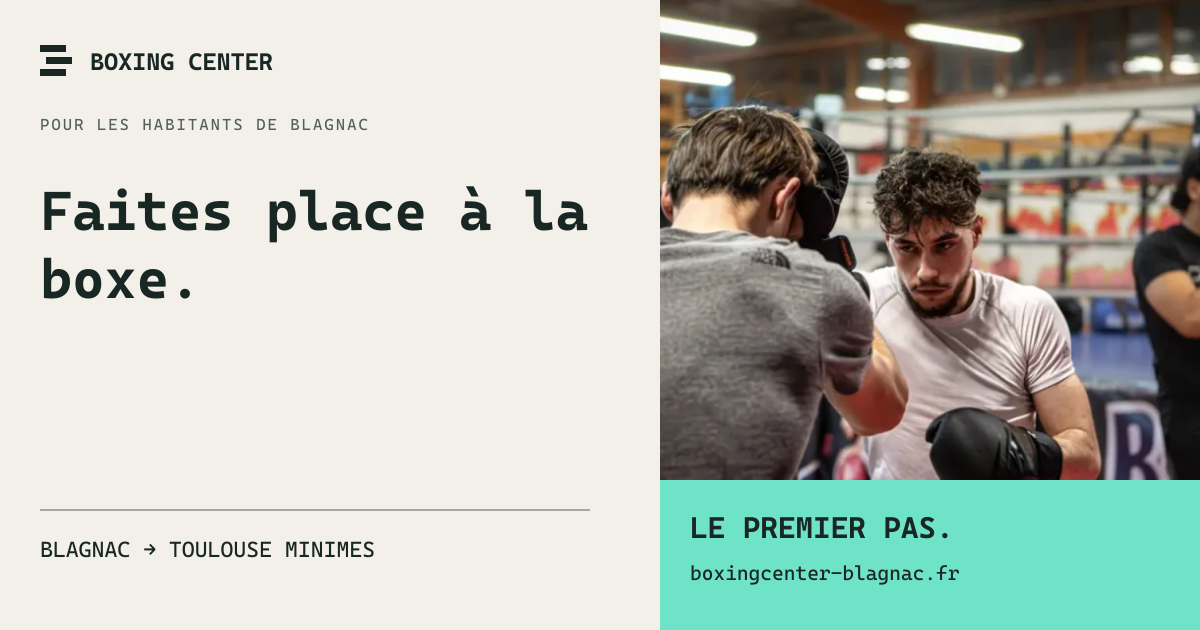
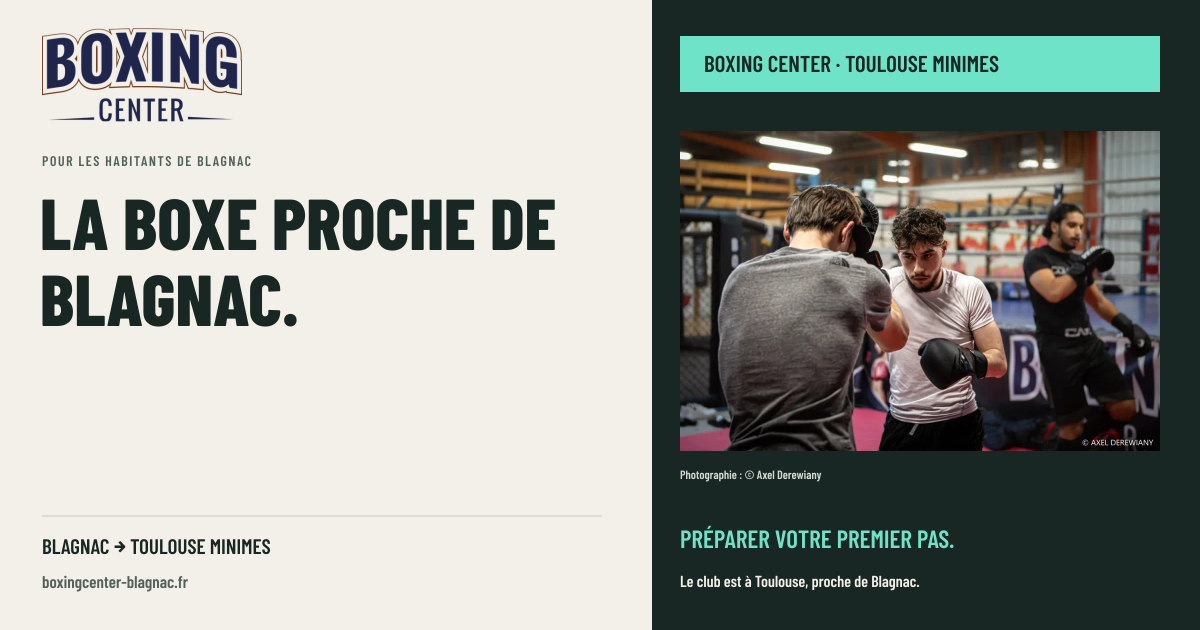
Refine navigation and club conversion paths

diff --git a/src/styles/global.css b/src/styles/global.css
@@ -11,7 +11,7 @@
 }
 @layer base {
   :root { --paper: #f2f0e8; --ink: #192724; --muted: #52615a; --mint: #6ee3c8; --deep: #143e34; --line: #c3c8bd; --display: 'Barlow Condensed', 'Arial Narrow', sans-serif; --body: 'Manrope Variable', Arial, sans-serif; --pad: clamp(22px, 4.5vw, 88px); }
-  html { scroll-behavior: smooth; scroll-padding-top: 100px; }
+  html { scroll-behavior: smooth; scroll-padding-top: 125px; }
   body { background: var(--paper); color: var(--ink); font: 500 15px/1.65 var(--body); overflow-wrap: break-word; }
   ::selection { color: var(--ink); background: var(--mint); }
   :focus-visible { outline: 3px solid #196954; outline-offset: 5px; }
@@ -48,18 +48,32 @@
   @keyframes fade-in { from { opacity: 0; transform: translateY(8px); } }
 }
 @layer layout {
-  .site-header { position: relative; z-index: 20; display: flex; align-items: center; padding: 22px var(--pad); gap: 30px; border-bottom: 1px solid var(--line); min-height: 106px; }
-  .brand { display: flex; align-items: center; gap: 12px; flex: 0 0 auto; font-family: var(--display); font-weight: 800; line-height: .86; font-size: 25px; letter-spacing: -.035em; }
-  .brand-local { display: block; margin-top: 8px; font-family: var(--body); font-size: 8px; font-weight: 800; letter-spacing: .12em; }
-  .brand-symbol { display: grid; width: 33px; gap: 5px; transform: rotate(-22deg); }
-  .brand-symbol i { display: block; height: 6px; background: var(--ink); }
-  .brand-symbol i:nth-child(2) { background: #2c9477; transform: translateX(7px); }
-  .desktop-nav { display: flex; justify-content: center; gap: 30px; margin-left: auto; font-size: 12px; font-weight: 700; }
+  .site-header { position: sticky; top: 0; z-index: 50; display: flex; align-items: center; padding: 12px var(--pad); gap: 25px; border-bottom: 1px solid var(--line); min-height: 106px; background: var(--paper); }
+  .brand { display: flex; flex-direction: column; align-items: center; gap: 5px; flex: 0 0 auto; }
+  .brand img { width: 142px; height: auto; }
+  .brand-local { display: block; color: #20254b; font-size: 8px; line-height: 1.5; font-weight: 800; letter-spacing: .12em; }
+  .brand-footer { width: fit-content; padding: 15px 18px; background: var(--paper); margin-bottom: 20px; }
+  .desktop-nav { display: flex; justify-content: center; gap: 24px; margin-left: auto; font-size: 12px; font-weight: 700; }
   .desktop-nav a { padding: 8px 0; border-bottom: 1px solid transparent; transition: border .25s; }
-  .desktop-nav a:hover { border-color: var(--ink); }
+  .desktop-nav a:hover, .desktop-nav a[aria-current="page"] { border-color: var(--ink); }
   .header-cta { margin-left: auto; display: flex; align-items: center; gap: 20px; border: 1px solid var(--ink); padding: 13px 17px; font-size: 12px; font-weight: 800; transition: background .2s; }
   .header-cta:hover { background: var(--mint); }
+  .header-cta small { display: block; font-size: 8px; letter-spacing: .09em; margin-top: 2px; color: var(--muted); }
   .mobile-menu { display: none; }
+  .mobile-club-cta { display: none; }
+  .menu-backdrop { display: none; }
+  .club-prompt { position: fixed; right: 22px; bottom: 20px; z-index: 30; display: flex; justify-content: space-between; align-items: center; gap: 18px; width: 210px; max-width: calc(100vw - 36px); min-height: 60px; padding: 13px 17px; background: var(--mint); color: var(--ink); border: 1px solid var(--ink); box-shadow: 3px 3px 0 #19272430; transition: width .25s ease, box-shadow .25s ease; }
+  .club-prompt strong { display: block; font-size: 12px; line-height: 1.3; }
+  .club-prompt small { display: block; font-size: 7px; font-weight: 800; letter-spacing: .07em; margin-top: 4px; }
+  .club-prompt svg { flex: 0 0 auto; width: 20px; height: 20px; }
+  .club-prompt-detail { display: none; font-size: 11px; line-height: 1.5; margin-top: 10px; }
+  .club-prompt.is-expanded { width: 320px; box-shadow: 3px 3px 0 #19272430, 0 0 0 6px #6ee3c840; }
+  .club-prompt.is-expanded .club-prompt-detail { display: block; }
+  footer.site-footer { padding-bottom: 110px; }
+  .practical-connections { padding: 35px var(--pad) 60px; border-top: 1px solid var(--line); }
+  .practical-connections nav { display: flex; flex-wrap: wrap; gap: 16px 35px; margin-top: 20px; }
+  .practical-connections a { display: flex; gap: 20px; align-items: center; min-height: 44px; font-size: 13px; font-weight: 800; }
+  .practical-direct { margin-top: 22px; }
   .hero { padding: 24px var(--pad) 0; }
   .hero-topline { display: flex; justify-content: space-between; gap: 20px; }
   .hero-coordinate { font-size: 10px; font-weight: 800; letter-spacing: .08em; }
@@ -307,16 +321,27 @@
   }
   @media(max-width:800px) {
     .desktop-nav { display: none; }
-    .site-header { padding-top: 20px; padding-bottom: 20px; min-height: 95px; }
-    .header-cta { margin-left: auto; font-size: 11px; }
+    .site-header { padding-top: 10px; padding-bottom: 10px; min-height: 95px; }
+    .header-cta { display: none; }
+    .mobile-club-cta { margin-left: auto; display: flex; align-items: center; gap: 8px; padding: 8px 10px; min-height: 44px; font-size: 11px; font-weight: 800; background: var(--mint); border: 1px solid var(--ink); line-height: 1.3; }
+    .mobile-club-cta small { display: block; font-size: 7px; letter-spacing: .06em; margin-top: 3px; }
+    .mobile-club-cta svg { width: 16px; height: 16px; }
     .mobile-menu { display: block; margin-left: 5px; font-size: 12px; }
     .mobile-menu summary { cursor: pointer; list-style: none; display: flex; align-items: center; gap: 14px; padding: 13px 0 13px 10px; }
     .mobile-menu summary::-webkit-details-marker { display: none; }
     .mobile-menu summary span { font-size: 21px; }
     .mobile-menu[open] summary span { transform: rotate(45deg); }
-    .mobile-menu nav { position: absolute; left: 0; right: 0; top: 100%; padding: 30px var(--pad); background: var(--ink); color: var(--paper); display: grid; gap: 3px; box-shadow: 0 8px 15px #0002; }
-    .mobile-menu nav a { padding: 10px 0; font-size: 15px; }
+    .mobile-menu nav { position: absolute; left: 0; right: 0; top: 100%; padding: 22px var(--pad) 26px; background: var(--ink); color: var(--paper); display: grid; gap: 3px; box-shadow: 0 8px 15px #0002; max-height: calc(100dvh - 110px); overflow-y: auto; overscroll-behavior: contain; }
+    .mobile-menu nav a { padding: 9px 0; min-height: 44px; font-size: 15px; }
+    .mobile-menu nav a[aria-current="page"] { color: var(--mint); }
+    .mobile-menu summary { min-height: 44px; min-width: 74px; }
+    .mobile-menu .menu-trial { display: grid; grid-template-columns: 1fr auto; align-items: center; padding: 15px 18px; margin-top: 13px; background: var(--mint); color: var(--ink); font-weight: 800; }
+    .menu-trial small { grid-column: 1/-1; font-size: 8px; letter-spacing: .07em; margin-top: 3px; }
     .mobile-menu:not([open]) nav { display: none; }
+    body:has(.mobile-menu[open]) { overflow: hidden; }
+    body:has(.mobile-menu[open]) > main, body:has(.mobile-menu[open]) > .site-footer { filter: blur(7px); pointer-events: none; }
+    body:has(.mobile-menu[open]) .club-prompt { display: none; }
+    body:has(.mobile-menu[open]) .menu-backdrop { display: block; position: fixed; inset: 0; z-index: 40; background: #19272440; cursor: pointer; }
     .hero-topline { display: block; }
     .hero-coordinate { display: none; }
     .hero-main-photo { height: 370px; }
@@ -371,14 +396,13 @@
   }
   @media(max-width:600px) {
     :root { --pad: 22px; }
-    html { scroll-padding-top: 25px; }
+    html { scroll-padding-top: 110px; }
     .site-header { gap: 12px; min-height: 90px; }
-    .brand { font-size: 22px; gap: 10px; }
-    .brand-symbol { width: 26px; gap: 4px; }
-    .brand-symbol i { height: 5px; }
+    .brand img { width: 124px; }
     .brand-local { font-size: 7px; }
     .header-cta { display: none; }
-    .mobile-menu { margin-left: auto; }
+    .mobile-menu { margin-left: 0; }
+    .club-prompt { right: 18px; bottom: 16px; }
     .hero { padding-top: 18px; }
     .hero-topline .eyebrow { font-size: 8px; letter-spacing: .07em; }
     .hero-composition { display: flex; flex-direction: column; padding-top: 32px; }
@@ -503,6 +527,9 @@
   }
   @media(max-width:360px) {
     :root { --pad: 18px; }
+    .site-header { gap: 8px; }
+    .brand img { width: 102px; }
+    .mobile-menu summary { min-width: 58px; gap: 8px; padding-left: 4px; }
     .hero-copy h1 { font-size: 25vw; }
     .hero-main-photo { height: 290px; }
     .opening h2 { font-size: 54px; }

diff --git a/src/scripts/site.ts b/src/scripts/site.ts
@@ -55,7 +55,51 @@ document.querySelectorAll<HTMLElement>('[data-session]').forEach((root) => {
 });
 
 document.querySelectorAll<HTMLDetailsElement>('.mobile-menu').forEach(menu => {
-  menu.addEventListener('keydown', event => { if (event.key === 'Escape') { menu.open = false; menu.querySelector('summary')?.focus(); } });
-  menu.querySelectorAll('a').forEach(link => link.addEventListener('click', () => { menu.open = false; }));
-  document.addEventListener('click', event => { if (event.target instanceof Node && !menu.contains(event.target)) menu.open = false; });
+  const header = menu.closest<HTMLElement>('header')!;
+  const summary = menu.querySelector('summary')!;
+  const background = [...document.querySelectorAll<HTMLElement>('main, .site-footer, .club-prompt')];
+  const mobile = matchMedia('(max-width: 800px)');
+  const sync = () => {
+    const open = menu.open && mobile.matches;
+    background.forEach(element => { element.inert = open; });
+    summary.setAttribute('aria-expanded', String(open));
+  };
+  const close = (restoreFocus = false) => {
+    menu.open = false;
+    sync();
+    if (restoreFocus) summary.focus();
+  };
+  menu.addEventListener('toggle', sync);
+  document.addEventListener('keydown', event => {
+    if (!menu.open || !mobile.matches) return;
+    if (event.key === 'Escape') { event.preventDefault(); close(true); return; }
+    if (event.key !== 'Tab') return;
+    const focusable = [...header.querySelectorAll<HTMLElement>('a[href], summary, button:not([disabled])')].filter(element => element.getClientRects().length > 0);
+    const first = focusable[0], last = focusable.at(-1)!;
+    if (event.shiftKey && document.activeElement === first) { event.preventDefault(); last.focus(); }
+    else if (!event.shiftKey && document.activeElement === last) { event.preventDefault(); first.focus(); }
+  });
+  menu.querySelectorAll('a').forEach(link => link.addEventListener('click', () => close()));
+  document.addEventListener('click', event => { if (event.target instanceof Node && !menu.contains(event.target)) close(); });
+  mobile.addEventListener('change', () => { if (!mobile.matches) close(); });
+  sync();
 });
+
+const clubPrompt = document.querySelector<HTMLElement>('[data-club-prompt]');
+if (clubPrompt) {
+  let nextDistance = 240, lastExpanded = -12000, timer: ReturnType<typeof setTimeout>;
+  const expand = () => {
+    clubPrompt.classList.add('is-expanded');
+    clearTimeout(timer);
+    timer = setTimeout(() => clubPrompt.classList.remove('is-expanded'), 3800);
+  };
+  window.addEventListener('scroll', () => {
+    if (document.querySelector('.mobile-menu[open]')) return;
+    if (scrollY < nextDistance || performance.now() - lastExpanded < 12000) return;
+    lastExpanded = performance.now();
+    nextDistance = scrollY + Math.max(700, innerHeight);
+    expand();
+  }, { passive: true });
+  clubPrompt.addEventListener('focus', expand);
+  clubPrompt.addEventListener('mouseenter', expand);
+}

diff --git a/docs/UI-REVIEW.md b/docs/UI-REVIEW.md
@@ -1,0 +1,30 @@
+# Passe UI/UX et éditoriale — 4 octobre 2026
+
+Les deux fichiers du cahier des charges transmis par Eddy ont le même SHA-256. La présente passe conserve la direction visuelle appréciée et traite les défauts signalés ; elle ne constitue pas une refonte complète ni une certification du niveau artistique Baffled Bar.
+
+| Demande / défaut | Résultat | Vérification |
+| --- | --- | --- |
+| Navigation perdue au scroll | En-tête sticky avec fond opaque | Bord supérieur à 0 après défilement réel |
+| Page confuse derrière le menu | Flou de 7 px, voile, arrière-plan inerte, scroll bloqué | Menu ouvert : flou et inert confirmés ; capture sauvegardée |
+| Navigation clavier | Focus contenu dans l’en-tête ; Échap ferme et restitue le focus | Boucle Tab / Maj-Tab, Échap, clic extérieur, retour au bureau |
+| Accès au club sur mobile | Bouton « Le club / Minimes » hors du menu | Visible sur les dix pages à 320 px, puis à 390 et 768 px |
+| Conversion pendant la lecture | Rectangle flottant permanent, élargissement ponctuel au scroll ou au focus | État développé observé ; retour compact après 3,8 s ; cadence limitée à une fois par 12 s de scroll |
+| Destination adaptée | Planning, tarifs et contact ont leur propre lien flottant | Dix routes inspectées dans le navigateur |
+| Liens quittant la page | Navigation dans un nouvel onglet, avec `noopener noreferrer` | Site Minimes et planning officiel réellement ouverts ; onglet Blagnac conservé |
+| Pages pratiques diluées | Plannings et Tarifs raccourcis : information officielle, lien immédiat, fiche officielle et questions utiles | Pages présentes et contrôlées ; menu relié directement aux pages du club |
+| Logo recomposé | Fichier officiel bleu marine / bronze dans l’en-tête, le pied de page et les partages | Asset `00_MARQUE/BC_Logo_Officiel_Transparent.png`, sans recoloration |
+| Ton du brief | Clair, local, rassurant, débutants bienvenus, orienté vers les Minimes | Intro et parcours revus ; pas de salle fictive à Blagnac ni de réservation simulée |
+
+La mention « coachs diplômés » reprend le cahier des charges fourni par le coach. Aucun diplôme, titulaire ou numéro précis n’a été inventé. La page publique des coachs présente les rôles de l’équipe mais ne détaille pas leurs qualifications : https://boxe-toulouse.com/coachs/.
+
+## Contrôles
+
+Build réussi : 12 pages. Audit HTML réussi : 11 pages indexables, accès flottant présent, liens de navigation dans de nouveaux onglets, images et maillage valides. Dix routes contrôlées à 320 px sans débordement. Accueil revérifié à 390, 768, 820 et 1440 px ; console sans erreur ni alerte relevée. Menu et fiches restent des contrôles natifs ; les liens fonctionnent sans JavaScript. Le comportement sans scripts et la réduction des animations ont été prévus ; aucune nouvelle émulation native de ces deux modes n’a été effectuée dans cette passe.
+
+Les captures de revue se trouvent dans `docs/qa/`, exclu de Git. Les ZIP et recherches restent exclus. Aucun agent supplémentaire ni service d’image générative n’a été utilisé pour cette passe.
+
+## Passe suivante, séparée à la demande d’Eddy
+
+SEO / GEO / AEO complet, revue des mots-clés et de toutes les vignettes, règles Claude Code appliquées à Codex, et ajout éventuel des nouvelles consignes au dossier de skills. Les préparations déjà engagées avant cette précision sont conservées, sans déclarer la passe SEO complète. Tout ajout aux skills devra être signé « Ajout rédigé par Codex à partir des consignes d’Eddy ».
+
+Le raccordement du domaine, les accès hébergement / Search Console et les informations légales restent décrits dans `PROJECT-STATE.md`.

diff --git a/docs/PROJECT-STATE.md b/docs/PROJECT-STATE.md
@@ -4,6 +4,8 @@
 
 ## Résultat disponible
 
+**Dernière passe : UI/UX et éditoriale du 4 octobre 2026**, décrite dans `UI-REVIEW.md`. Navigation sticky, menu avec flou et gestion clavier, logo officiel, accès au club hors du menu mobile, bouton flottant sur chaque page, liens dans de nouveaux onglets, pages pratiques raccourcies. Le SEO / GEO / AEO complet et les règles Claude Code sont réservés à une passe séparée, selon la dernière instruction d’Eddy.
+
 Site Astro statique comprenant les dix pages du brief, une page de confidentialité et une 404. Interface originale papier/encre/menthe, Barlow Condensed/Manrope, photographies du réseau et archive Fight Event 4. La fiche de départ combine discipline, disponibilité personnelle, conseil de préparation et résumé de conversation à copier. Aucune réservation n’est simulée et aucune donnée n’est transmise.
 
 La salle de destination est **Toulouse Minimes, 12 rue de Fenouillet, 31200 Toulouse**. Blagnac est l’origine du visiteur. Le MMA conserve une page, une entrée parmi les pratiques et un parcours de contact conformément au brief ; le lieu du cours se vérifie avec le réseau via les Minimes. Les autres destinations commerciales sont les pages réelles de `boxe-toulouse.com`.
@@ -20,7 +22,7 @@ La salle de destination est **Toulouse Minimes, 12 rue de Fenouillet, 31200 Toul
 - Contraste calculé sur 156 éléments textuels de l’accueil. Le mot décoratif en marge identifié comme peu contrasté a été corrigé. Les numéros sur photographie sont évalués visuellement avec leur ombre ; ce contrôle n’est pas une certification WCAG exhaustive.
 - Réduction des animations prévue via `prefers-reduced-motion`, avec garde JavaScript et CSS. Code inspecté ; aucune émulation native de cette préférence n’a été effectuée avec l’outil navigateur disponible.
 - `npm audit --omit=dev --audit-level=high` : zéro vulnérabilité.
-- JavaScript client de production : 5 237 octets avant compression. CSS principal : environ 37 Ko. 27 variantes WebP : environ 1,75 Mio pour toute la photothèque, sans agrandissement artificiel. Les douze PNG de partage sont hors du chargement courant des pages.
+- JavaScript client de production : 6 520 octets avant compression. CSS principal : environ 40 Ko. 27 variantes WebP : environ 1,75 Mio pour toute la photothèque, sans agrandissement artificiel. Les douze PNG de partage sont hors du chargement courant des pages.
 - Contrôle visuel bureau/mobile : accueil, choix de pratique, fiche, accès, événement, page enfants et contact. Photographies et légendes vérifiées, watermark de l’archive conservé.
 
 Les chiffres ci-dessus décrivent la version locale ; ils ne sont ni un Lighthouse de production ni des données de terrain en 4G.
